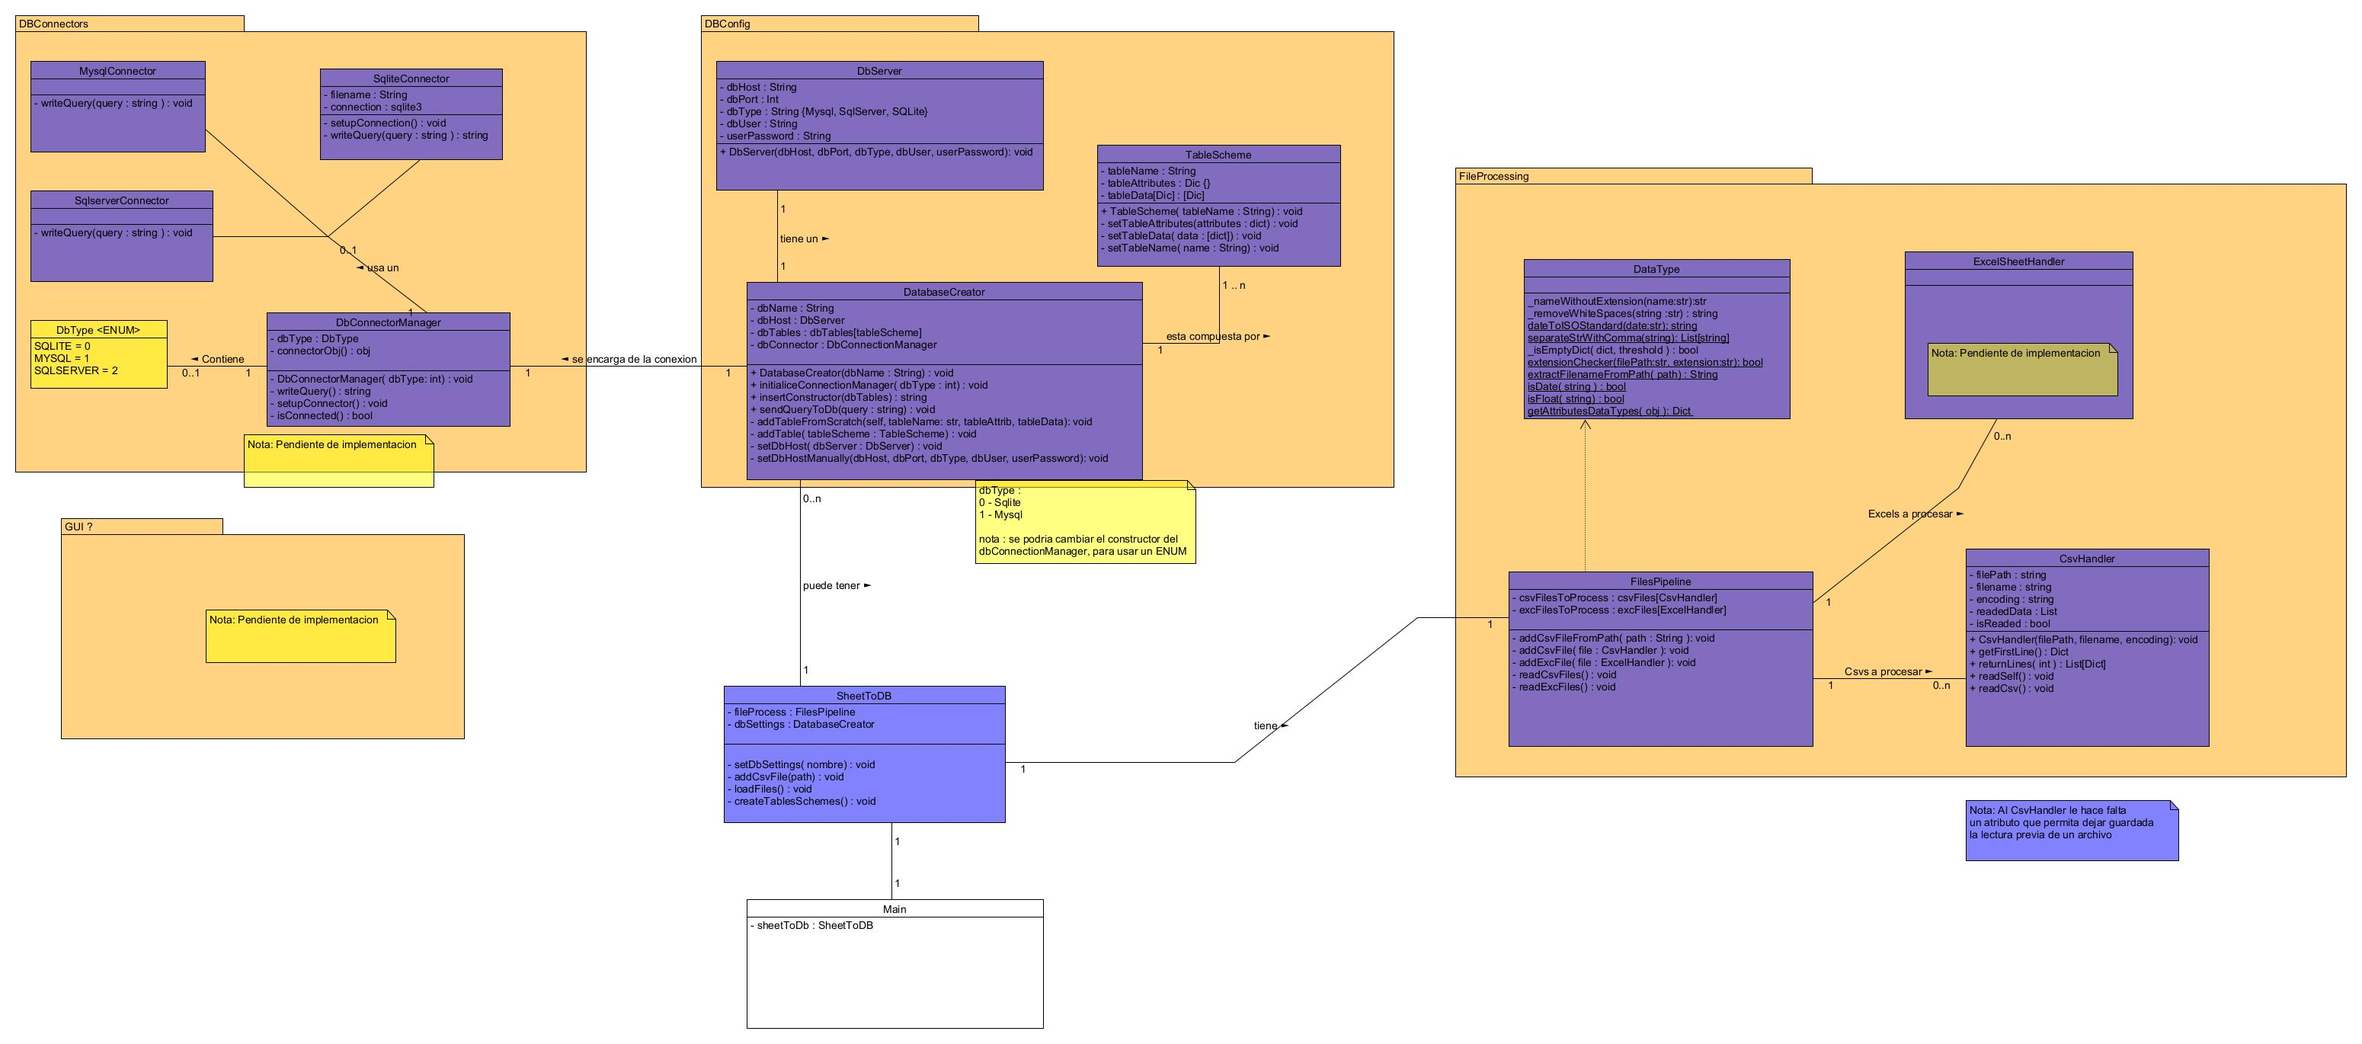
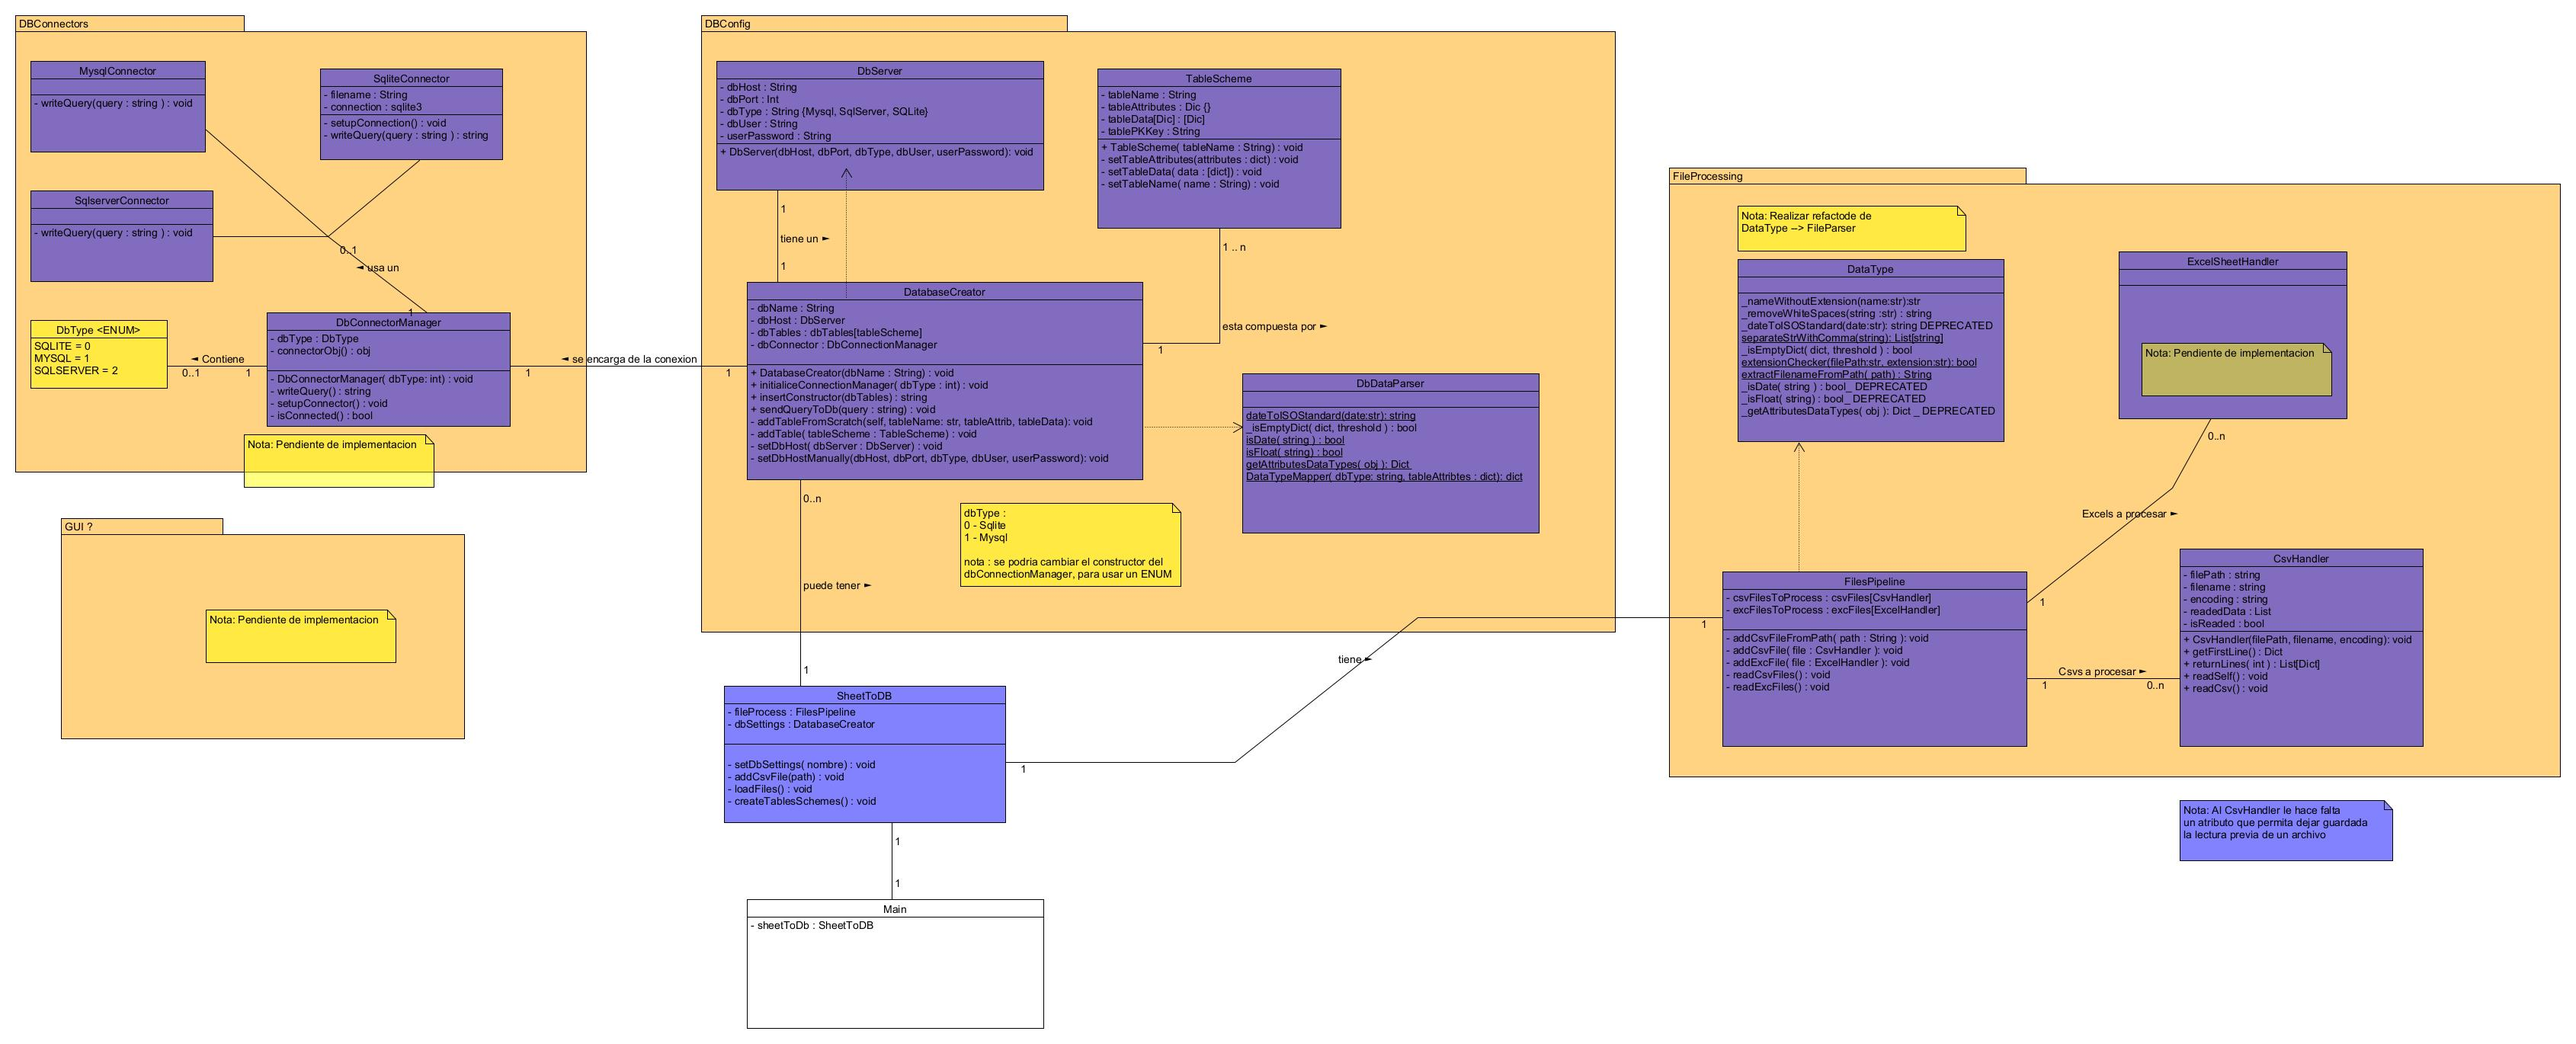
Cambio clase TableScheme
Cambios:

- Se agrega atributo tablePkKey, refiriendose al string con el nombre del campo de la llave primaria (ID) de la bd, si esta la tiene.

- Se crea clase DbDataParser en el paquete de creacion de las BD, esta se encargara de los manejos de datos y obtencion de atributos.

- Se crean borradores de json para mapear comportamientos de las distintas bd de datos sql y otro para mapear las estructuras de datos equivalentes que se puedan usar.

todo:
- refactor nombre clase : DataType  -->  FileParser

-

diff --git a/SheetToDb/DBConfig/DatabaseCreator.py b/SheetToDb/DBConfig/DatabaseCreator.py
@@ -30,8 +30,8 @@ class DatabaseCreator:
 
             # iterar sobre los atributos de la tabla
             for vals in table.tableAttributes:
-                print(vals)
-                print(table.tableAttributes[vals])
+                print(vals) # Key
+                print(table.tableAttributes[vals]) #Value
 
 
 

diff --git a/SheetToDb/DBConfig/TableScheme.py b/SheetToDb/DBConfig/TableScheme.py
@@ -5,6 +5,7 @@ class TableScheme:
         self.tableName = "".join(tableName.split())
         self.tableAttributes = tableAttributes
         self.tableData = tableData
+        self.tablePKKey = None
 
     def setTableAttributes(self, attributes):
         self.tableAttributes = attributes

diff --git a/SheetToDb/DBConfig/DBDataParser.py b/SheetToDb/DBConfig/DBDataParser.py
@@ -1,0 +1,3 @@
+class DBDataParser:
+
+    pass
